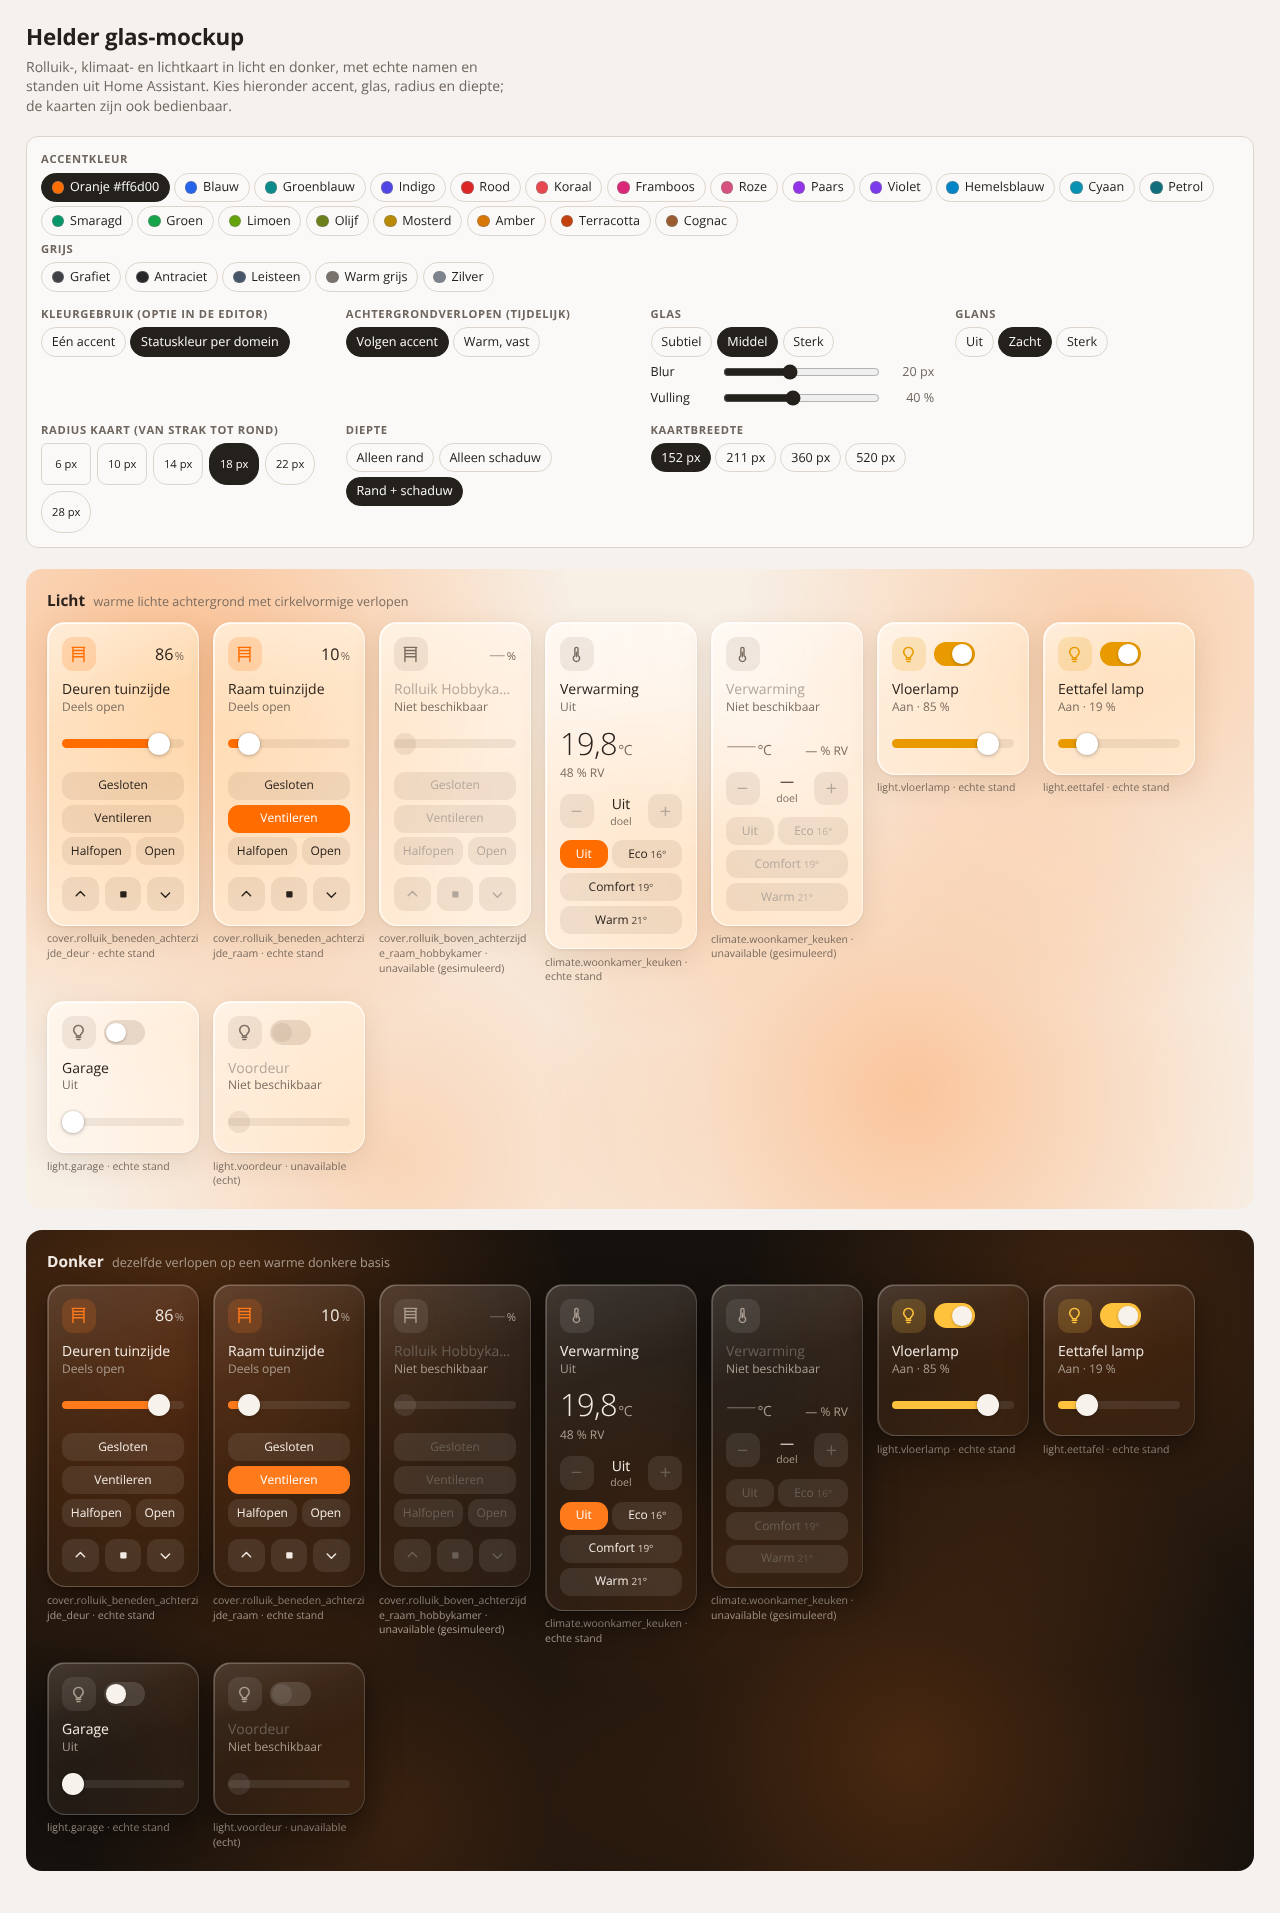
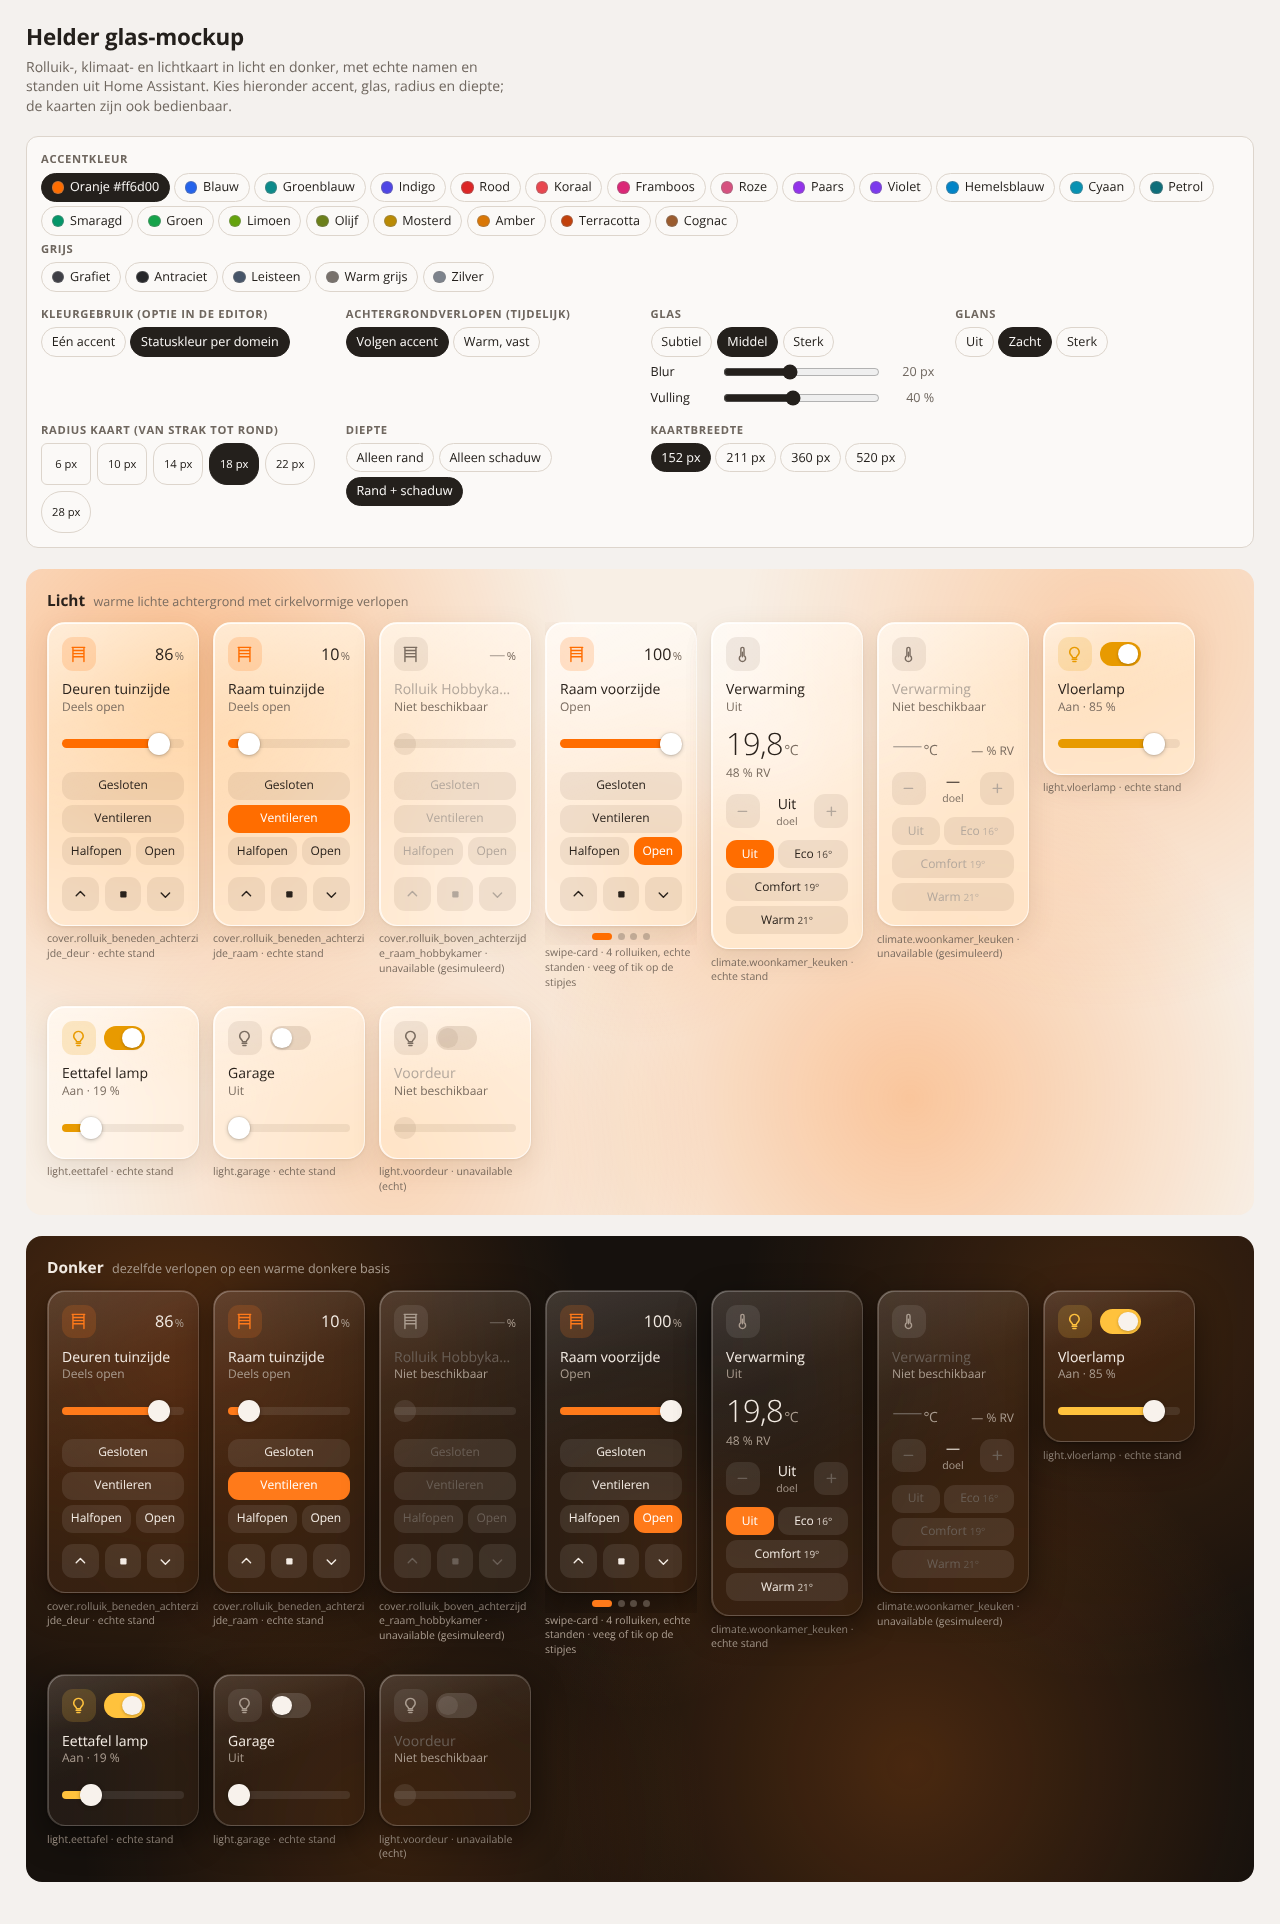
mockup: add swipe card with four covers as slides
Claude-Session: https://claude.ai/code/session_0188TZibxehgLpvZx4MTqWFe

diff --git a/mockup/glass.html b/mockup/glass.html
@@ -295,6 +295,24 @@ figcaption b { font-weight: 400; }
 .target .tv { text-align: center; font-weight: 400; font-variant-numeric: tabular-nums; white-space: nowrap; }
 .target .tv small { display: block; font-size: .75rem; font-weight: 400; color: var(--helder-color-text-muted); }
 
+/* swipe-kaart: slides naast elkaar met snap, stipjes eronder */
+.swipe { display: grid; gap: .5rem; min-width: 0; }
+.track {
+  display: grid; grid-auto-flow: column; grid-auto-columns: 100%; gap: var(--helder-space);
+  overflow-x: auto; scroll-snap-type: x mandatory; scrollbar-width: none; overscroll-behavior-x: contain;
+  padding-bottom: 1.4rem; margin-bottom: -1.4rem;
+}
+.track::-webkit-scrollbar { display: none; }
+.slide { scroll-snap-align: start; min-width: 0; }
+.dots { display: flex; justify-content: center; gap: .4rem; position: relative; }
+.dot {
+  width: .5rem; height: .5rem; padding: 0; border: 0; border-radius: 999px; cursor: pointer;
+  background: var(--helder-color-text-muted); opacity: .4; transition: width .2s ease, opacity .2s ease;
+}
+.dot[aria-current="true"] { width: 1.4rem; opacity: 1; background: var(--helder-color-accent); }
+.dot:focus-visible { outline: 2px solid var(--helder-color-accent); outline-offset: 2px; }
+@media (prefers-reduced-motion: reduce) { .dot { transition: none; } }
+
 /* onbeschikbaar: alleen kleuren veranderen */
 .card.na .name, .card.na .value, .card.na .big { color: var(--helder-color-disabled); }
 
@@ -401,6 +419,12 @@ figcaption b { font-weight: 400; }
     { kind: 'cover', id: 'cover.rolluik_beneden_achterzijde_deur', name: 'Deuren tuinzijde', pos: 86 },
     { kind: 'cover', id: 'cover.rolluik_beneden_achterzijde_raam', name: 'Raam tuinzijde', pos: 10 },
     { kind: 'cover', id: 'cover.rolluik_boven_achterzijde_raam_hobbykamer', name: 'Rolluik Hobbykamer', na: true, sim: true },
+    { kind: 'swipe', id: 'custom:swipe-card', items: [
+      { kind: 'cover', id: 'cover.rolluik_beneden_voorzijde_raam', name: 'Raam voorzijde', pos: 100 },
+      { kind: 'cover', id: 'cover.rolluik_boven_voorzijde_raam_links', name: 'Rolluik raam (links)', pos: 60 },
+      { kind: 'cover', id: 'cover.rolluik_boven_voorzijde_raam_rechts', name: 'Rolluik (rechts)', pos: 60 },
+      { kind: 'cover', id: 'cover.rolluik_boven_achterzijde_raam_scott', name: 'Raam slaapkamer Scott', pos: 60 }
+    ] },
     { kind: 'climate', id: 'climate.woonkamer_keuken', name: 'Verwarming', area: 'Woonkamer & Keuken', mode: 'off', cur: 19.8, hum: 47.8, target: 19, min: 16, max: 22, step: .5 },
     { kind: 'climate', id: 'climate.woonkamer_keuken', name: 'Verwarming', area: 'Woonkamer & Keuken', na: true, sim: true, min: 16, max: 22, step: .5 },
     { kind: 'light', id: 'light.vloerlamp', name: 'Vloerlamp', area: 'Woonkamer', on: true, bri: 217 },
@@ -459,16 +483,36 @@ figcaption b { font-weight: 400; }
     </div>`;
   }
 
-  const renderers = { cover: coverCard, climate: climateCard, light: lightCard };
+  function swipeCard(e) {
+    return `<div class="swipe">
+      <div class="track">${e.items.map((it, j) => `<div class="slide" data-j="${j}">${renderers[it.kind](it)}</div>`).join('')}</div>
+      <div class="dots">${e.items.map((it, j) => `<button class="dot" data-go="${j}" aria-label="Naar ${it.name}" aria-current="${j === 0}"></button>`).join('')}</div>
+    </div>`;
+  }
+
+  const renderers = { cover: coverCard, climate: climateCard, light: lightCard, swipe: swipeCard };
   // Iedere modus krijgt een eigen kopie van de staat, zodat je licht en donker los kunt bedienen.
-  const stages = [...document.querySelectorAll('.stage')].map(el => ({ el, list: entities.map(e => ({ ...e })) }));
+  const stages = [...document.querySelectorAll('.stage')].map(el => ({ el, list: structuredClone(entities) }));
 
   function caption(e) {
+    if (e.kind === 'swipe') return `<figcaption><b>swipe-card</b> · ${e.items.length} rolluiken, echte standen · veeg of tik op de stipjes</figcaption>`;
     const note = e.na ? (e.sim ? 'unavailable (gesimuleerd)' : 'unavailable (echt)') : 'echte stand';
     return `<figcaption><b>${e.id}</b> · ${note}</figcaption>`;
   }
   function renderStage(s) {
     s.el.querySelector('.cards').innerHTML = s.list.map((e, i) => `<figure data-i="${i}">${renderers[e.kind](e)}${caption(e)}</figure>`).join('');
+    s.el.querySelectorAll('.track').forEach(t => t.addEventListener('scroll', () => {
+      const k = Math.round(t.scrollLeft / t.clientWidth);
+      t.parentElement.querySelectorAll('.dot').forEach((d, j) => d.setAttribute('aria-current', String(j === k)));
+    }, { passive: true }));
+  }
+  // Zoek de entity bij een element; binnen een swipe-kaart is dat de slide.
+  function resolve(s, el) {
+    const fig = el.closest('figure'), i = +fig.dataset.i, sl = el.closest('.slide');
+    return { fig, i, sl, e: sl ? s.list[i].items[+sl.dataset.j] : s.list[i] };
+  }
+  function rerender(s, r) {
+    if (r.sl) r.sl.innerHTML = renderers[r.e.kind](r.e); else renderFig(s, r.i);
   }
   function renderFig(s, i) {
     const fig = s.el.querySelector(`figure[data-i="${i}"]`);
@@ -480,20 +524,22 @@ figcaption b { font-weight: 400; }
     s.el.addEventListener('input', ev => {
       const t = ev.target; if (!t.classList.contains('slider')) return;
       t.style.setProperty('--p', t.value + '%');
-      const fig = t.closest('figure'); const e = s.list[+fig.dataset.i];
-      if (e.kind === 'cover') { fig.querySelector('.value').firstChild.textContent = t.value; }
-      if (e.kind === 'light') { fig.querySelector('.sub').textContent = 'Aan · ' + t.value + ' %'; }
+      const { e } = resolve(s, t), box = t.closest('.card');
+      if (e.kind === 'cover') { box.querySelector('.value').firstChild.textContent = t.value; }
+      if (e.kind === 'light') { box.querySelector('.sub').textContent = 'Aan · ' + t.value + ' %'; }
     });
     s.el.addEventListener('change', ev => {
       const t = ev.target; if (!t.classList.contains('slider')) return;
-      const i = +t.closest('figure').dataset.i, e = s.list[i];
+      const r = resolve(s, t), e = r.e;
       if (e.kind === 'cover') e.pos = +t.value;
       if (e.kind === 'light') { e.on = true; e.bri = Math.round(+t.value / 100 * 255); }
-      renderFig(s, i);
+      rerender(s, r);
     });
     s.el.addEventListener('click', ev => {
+      const dot = ev.target.closest('.dot');
+      if (dot) { const t = dot.closest('.swipe').querySelector('.track'); t.scrollTo({ left: +dot.dataset.go * t.clientWidth, behavior: 'smooth' }); return; }
       const b = ev.target.closest('button[data-act]'); if (!b || b.disabled) return;
-      const i = +b.closest('figure').dataset.i, e = s.list[i], a = b.dataset.act;
+      const r = resolve(s, b), e = r.e, a = b.dataset.act;
       if (a === 'preset') e.pos = +b.dataset.v;
       if (a === 'open') e.pos = 100;
       if (a === 'close') e.pos = 0;
@@ -501,7 +547,7 @@ figcaption b { font-weight: 400; }
       if (a === 'dec') e.target = Math.max(e.min, e.target - e.step);
       if (a === 'inc') e.target = Math.min(e.max, e.target + e.step);
       if (a === 'cpreset') { if (b.dataset.v === 'null') e.mode = 'off'; else { e.mode = 'heat'; e.target = +b.dataset.v; } }
-      renderFig(s, i);
+      rerender(s, r);
     });
   });
 
